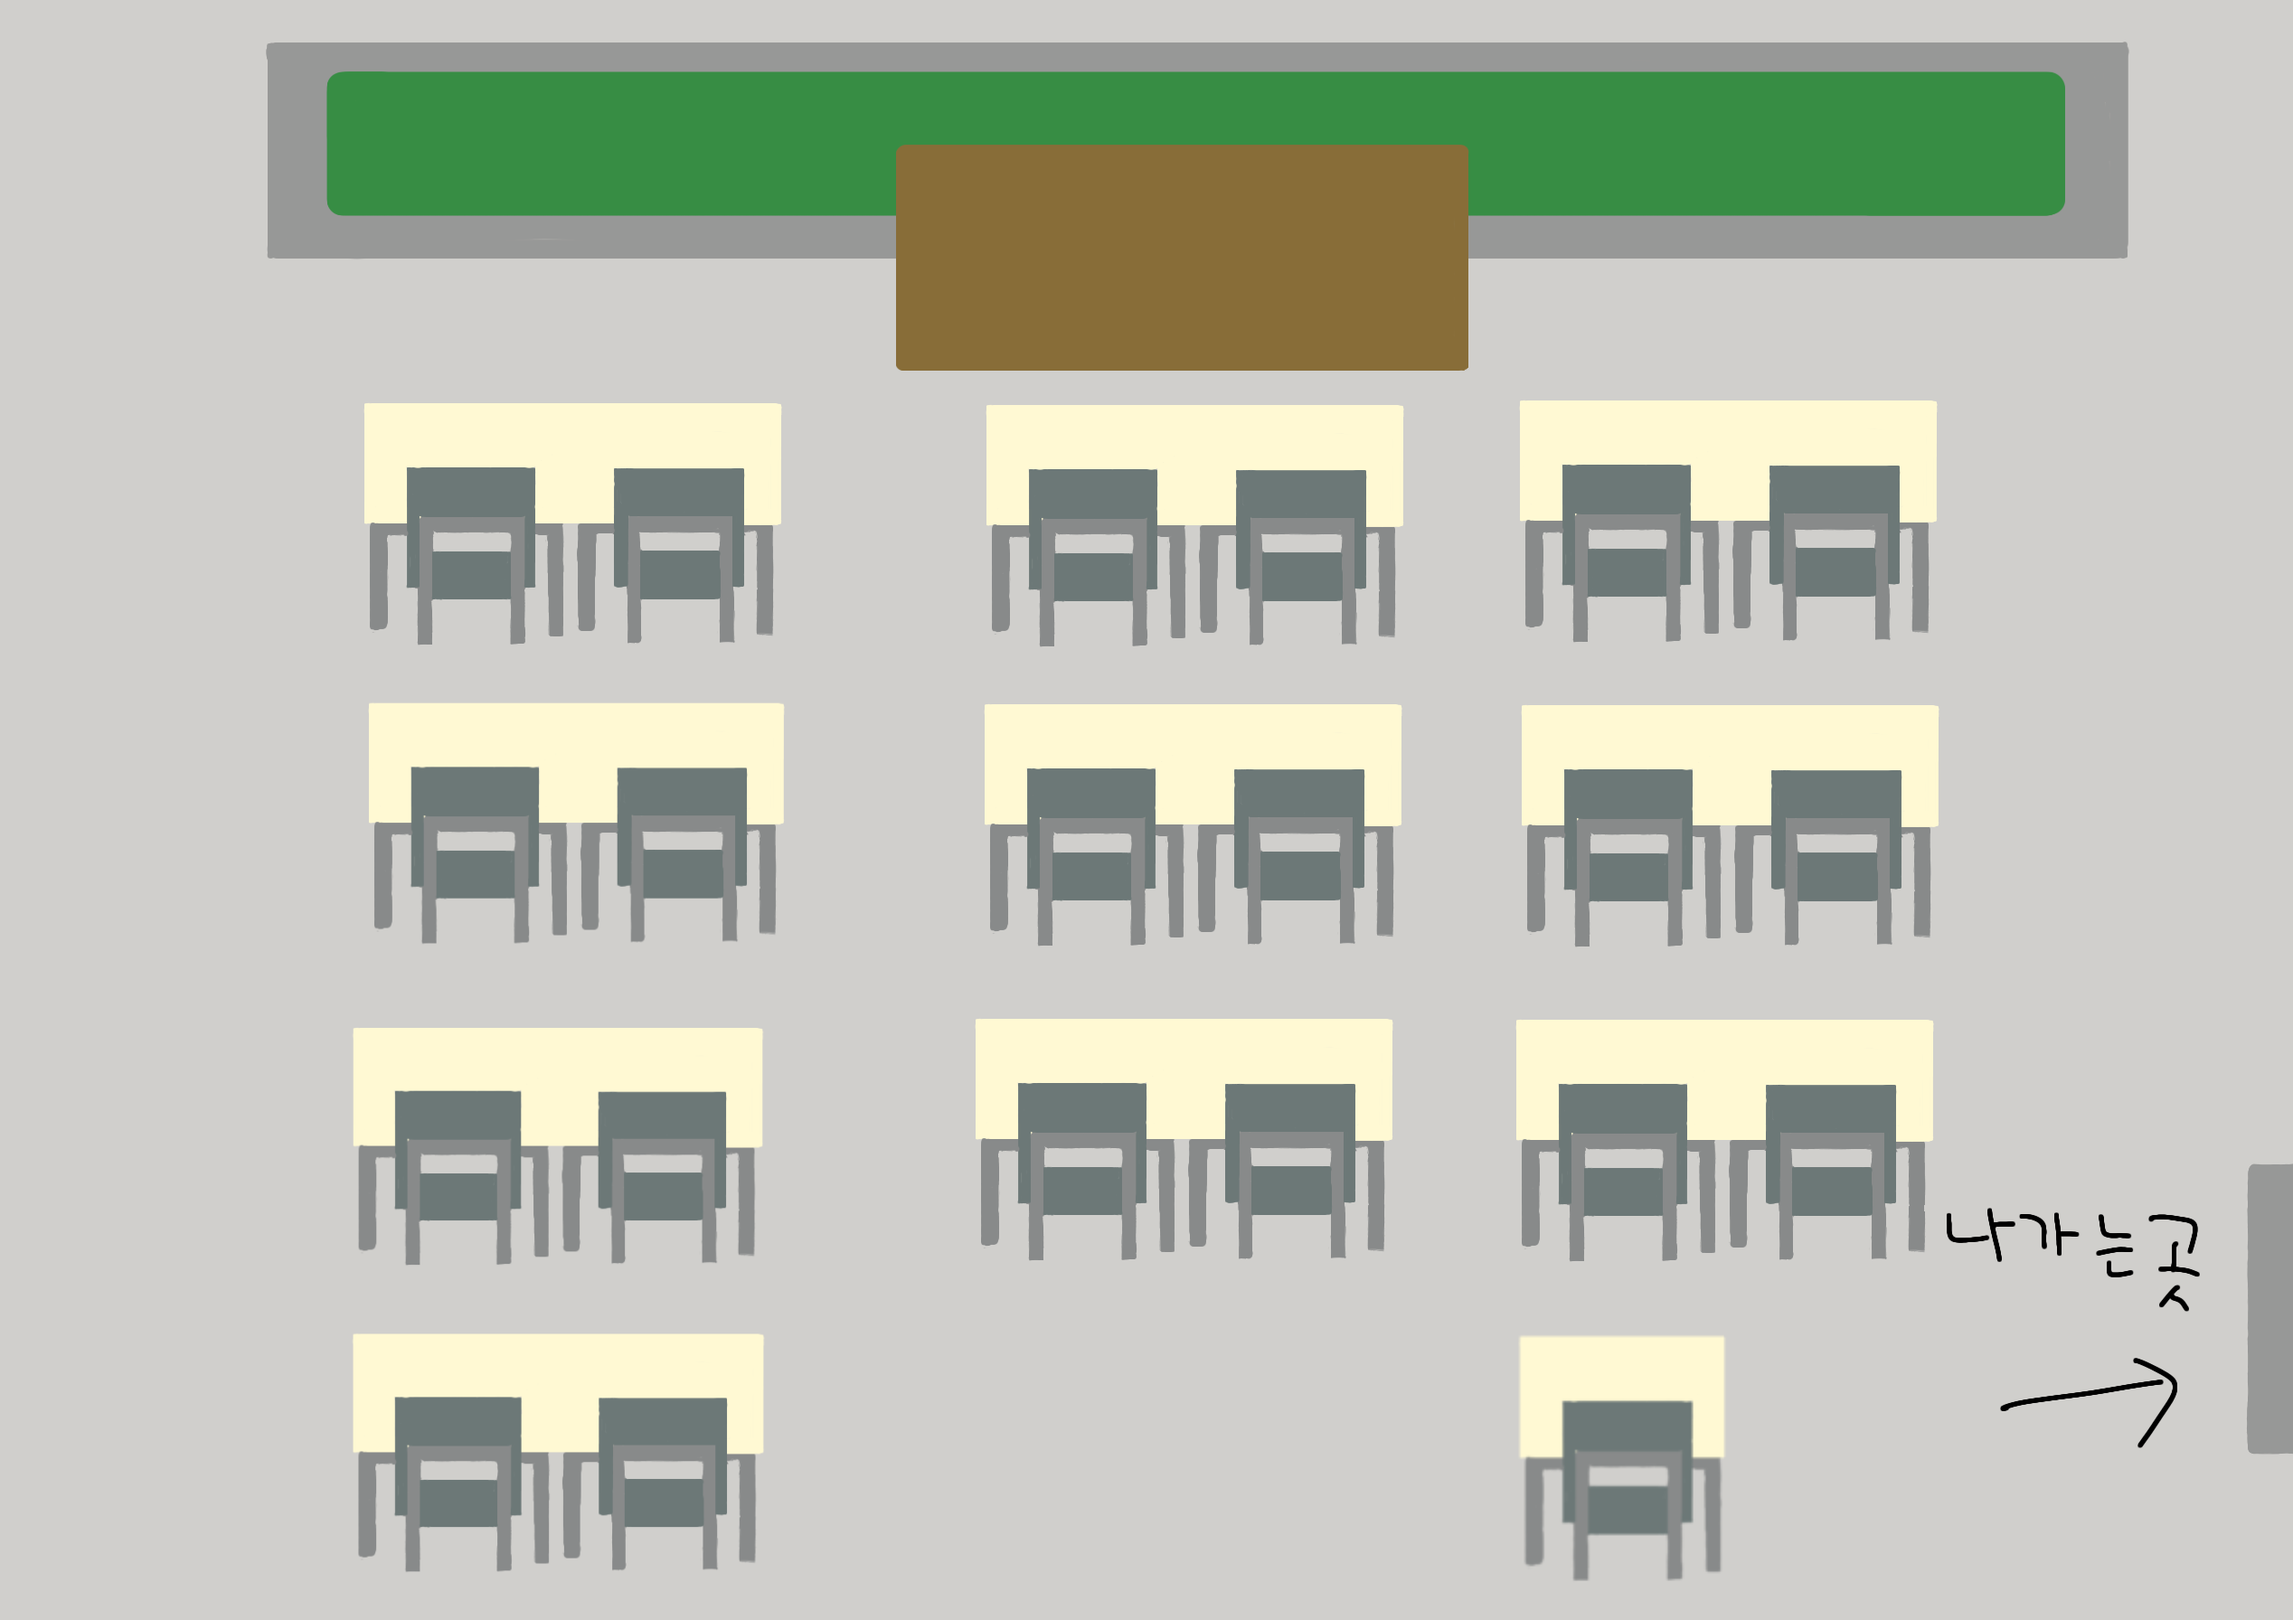
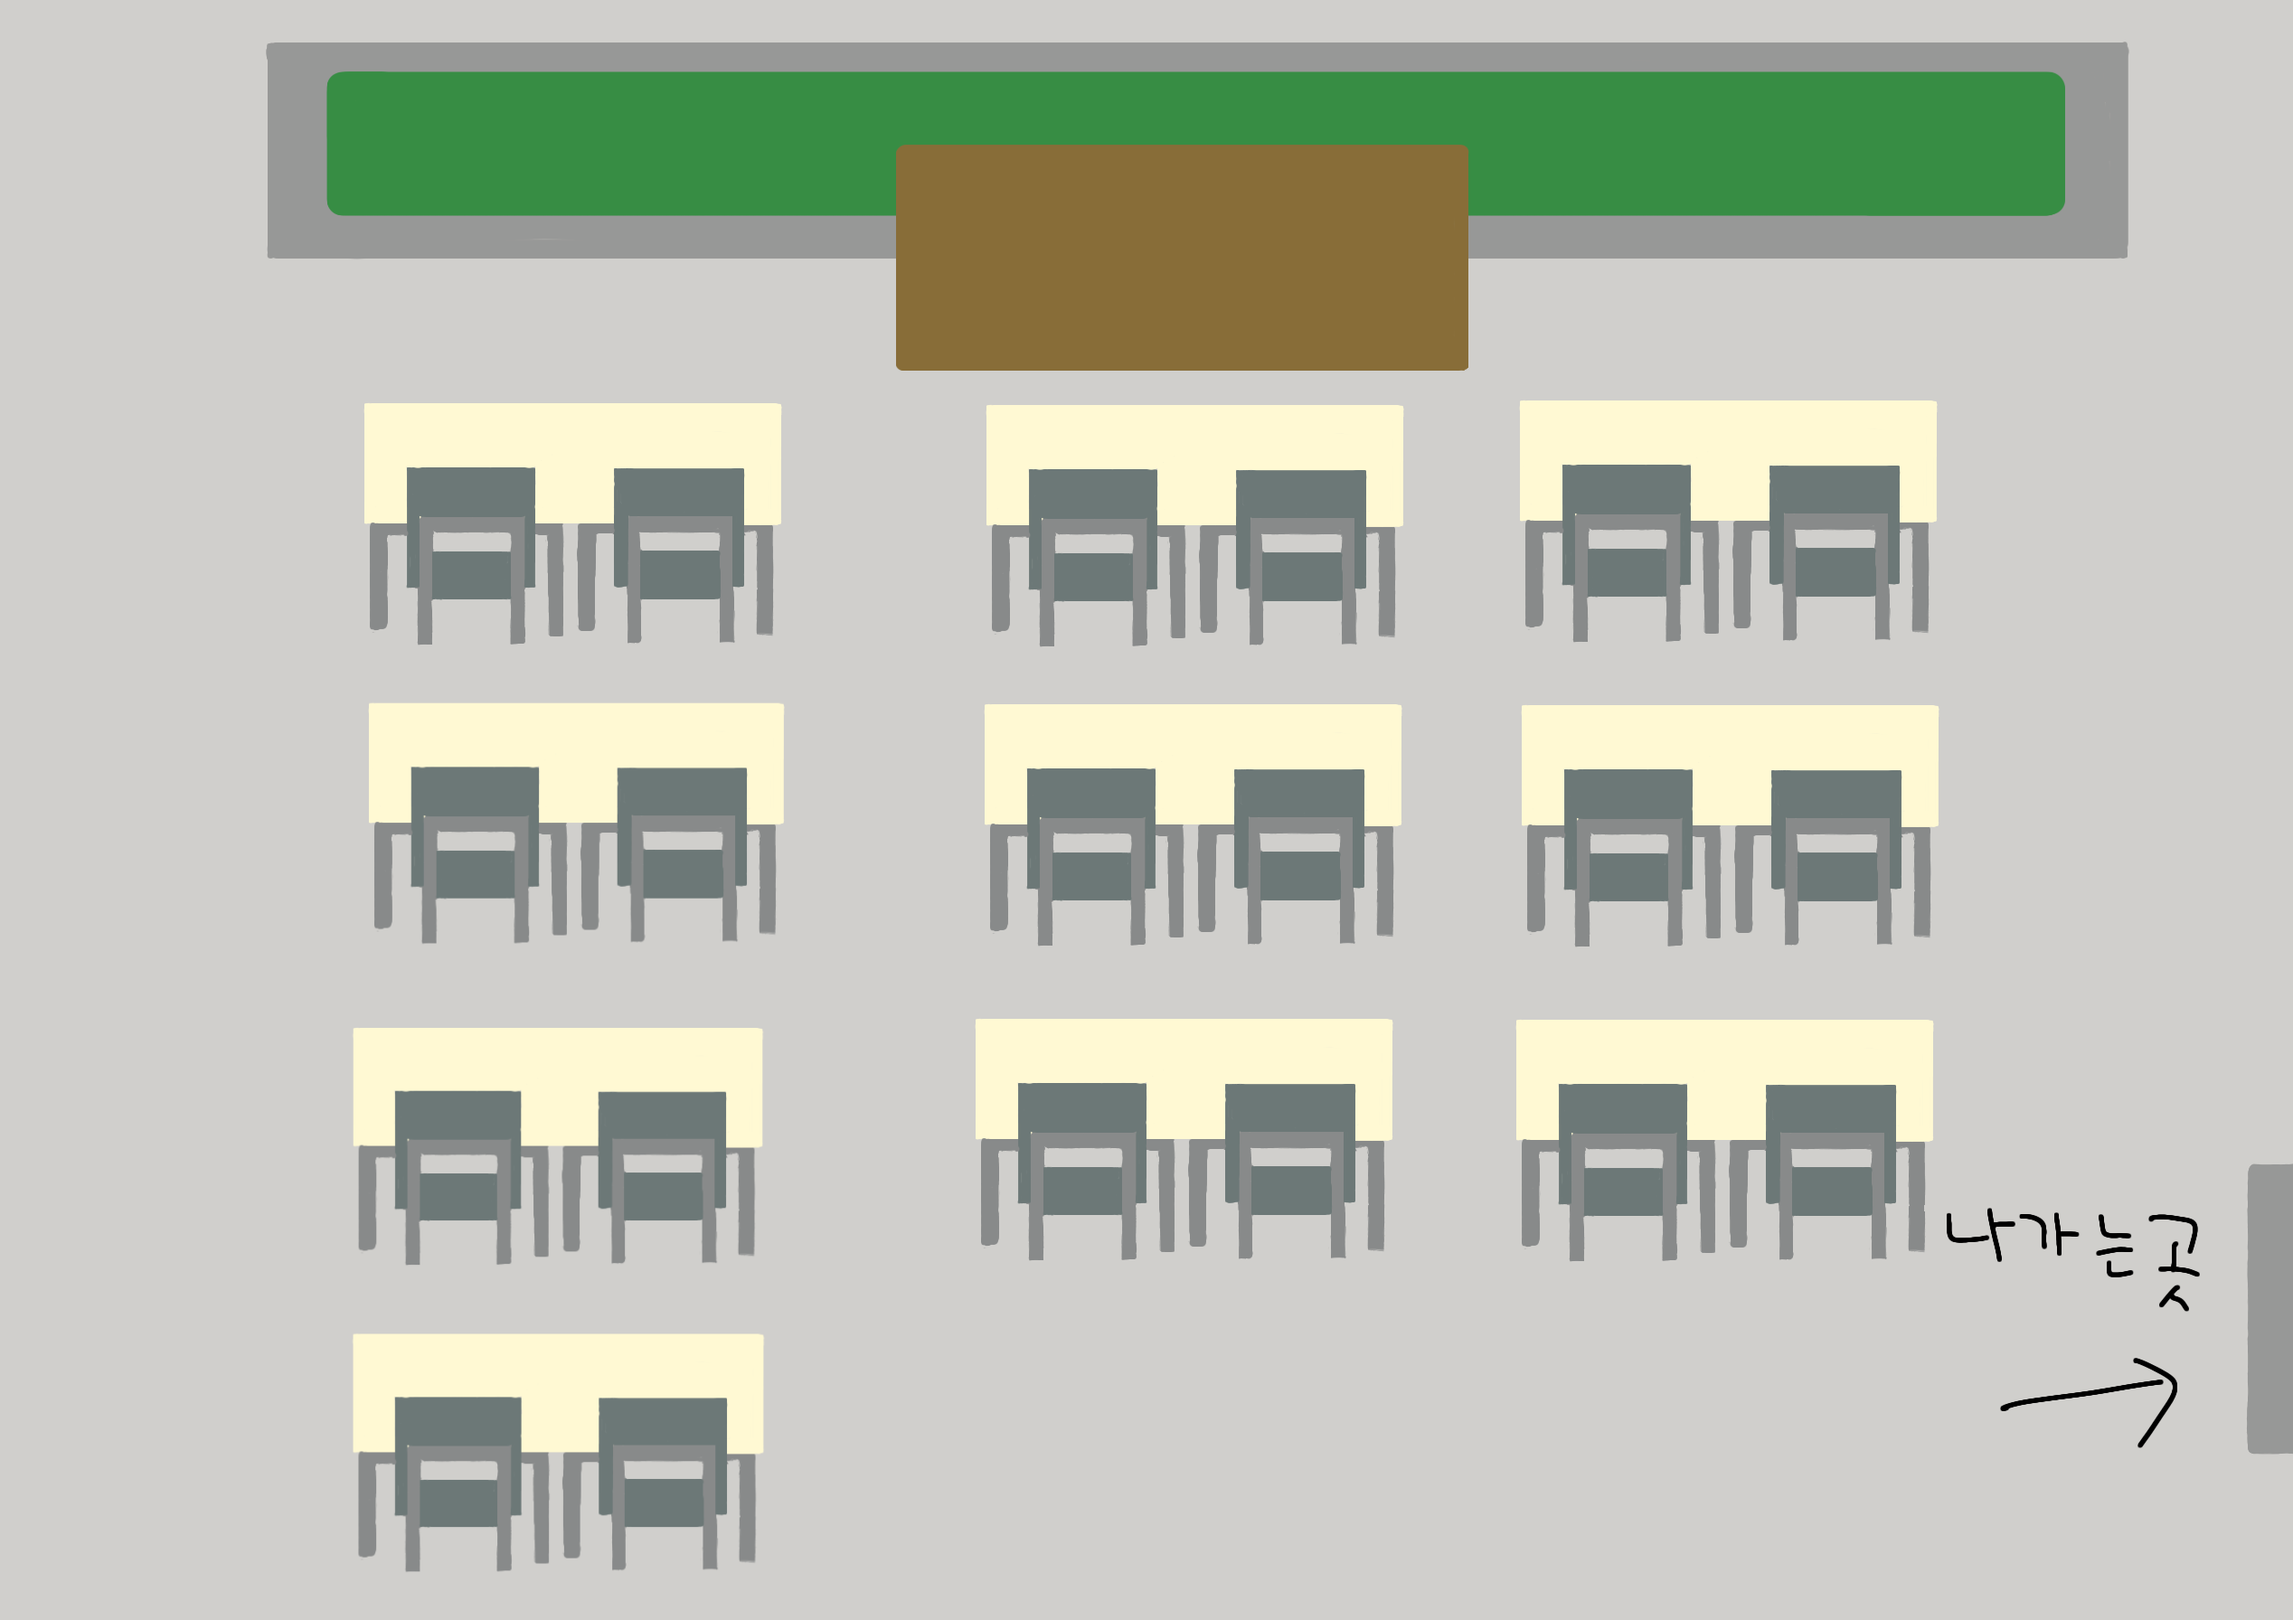
수정

Changed region(s): [[0.6542, 0.8125, 0.7788, 0.9688]]

diff --git a/app.js b/app.js
@@ -11,9 +11,9 @@ const obstacle = [
         {x1: 0.430, y1: 0.250, x2: 0.612, y2: 0.419},
         {x1: 0.663, y1: 0.247, x2: 0.844, y2: 0.394},
         {x1: 0.664, y1: 0.435, x2: 0.845, y2: 0.582},
-        {x1: 0.661, y1: 0.630, x2: 0.843, y2: 0.777},
-        {x1: 0.663, y1: 0.825, x2: 0.752, y2: 0.974}
+        {x1: 0.661, y1: 0.630, x2: 0.843, y2: 0.777}
     ],
+    [],
     [
         { x1: 0.159, y1: 0.234, x2: 0.433, y2: 0.395 },
         { x1: 0.160, y1: 0.400, x2: 0.433, y2: 0.579 },
